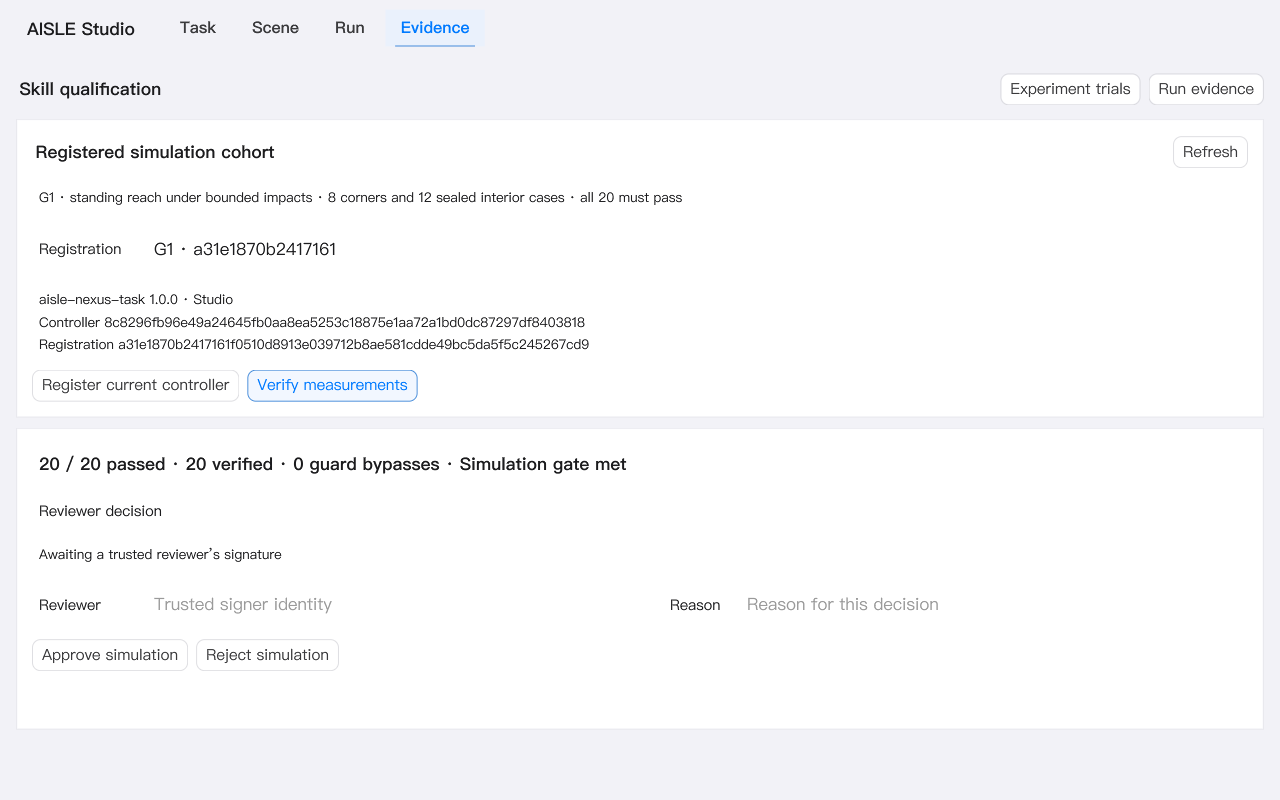
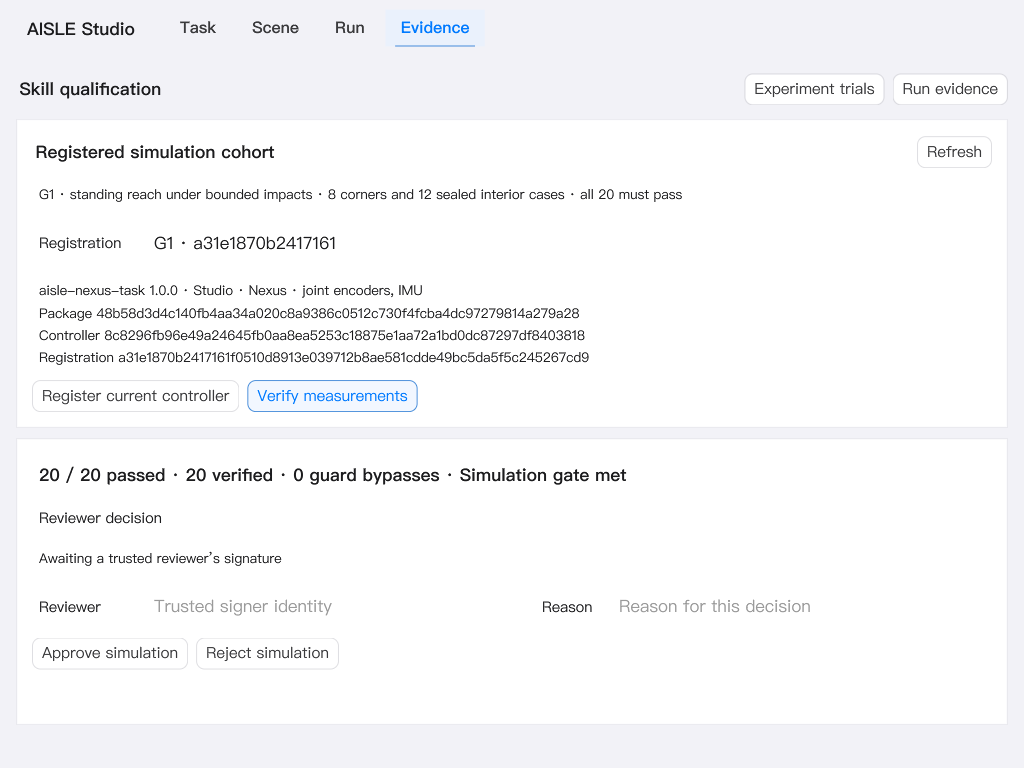
Show the sensor contract and package digest in the native qualification review

diff --git a/tools/check_skill_qualification.py b/tools/check_skill_qualification.py
@@ -5,7 +5,9 @@ import json
 import os
 from pathlib import Path
 import shutil
+import struct
 import subprocess
+from tempfile import TemporaryDirectory
 
 from studio_native import NativeStudio, ROOT
 
@@ -57,7 +59,8 @@ def main():
             ),
         )
     # Independent ephemeral acceptance identity. This has no trust on an operator's installation.
-    key = folder / "acceptance-key"
+    signing_dir = TemporaryDirectory(prefix="aisle-review-test-key-")
+    key = Path(signing_dir.name) / "acceptance-key"
     subprocess.run(
         ["ssh-keygen", "-q", "-t", "ed25519", "-N", "", "-f", str(key)], check=True
     )
@@ -119,7 +122,32 @@ def main():
         assert len(rows) == report["cases"] and all(r["verified"] for r in rows), report
         assert len({r["spec"]["request_id"] for r in rows}) == len(rows)
         if args.backend == "offscreen":
-            app.act("grab", "w=0", "out=" + str(folder / "skill-review.png"))
+            sizes = []
+            for width, height in [(1024, 768), (1440, 900)]:
+                app.act("resize", "window=0", f"w={width}", f"h={height}")
+                image = folder / f"skill-review-{width}.png"
+                app.act("grab", "w=0", "out=" + str(image))
+                assert struct.unpack(">II", image.read_bytes()[16:24]) == (
+                    width,
+                    height,
+                )
+                rects = {}
+                for name in ["selector", "result", "reviewer", "reason", "reject"]:
+                    rect = app.control(prefix + name)["rect"]
+                    x, y, w, h = rect
+                    assert (
+                        -1 <= x
+                        and -1 <= y
+                        and x + w <= width + 1
+                        and y + h <= height + 1
+                    ), (name, rect)
+                    rects[name] = rect
+                sizes.append(
+                    {"size": [width, height], "image": image.name, "controls": rects}
+                )
+            (folder / "window-sizes.json").write_text(
+                json.dumps(sizes, indent=2) + "\n"
+            )
         if not report["qualified"]:
             assert not read(app.report)["controls"][prefix + "approve"]["enabled"]
         action = "approve" if report["qualified"] else "reject"
@@ -165,6 +193,7 @@ def main():
         assert not read(app.report)["controls"][prefix + "export"]["enabled"]
         decisions = read(directory / "reviews.json")
         assert len(decisions) == 2 and decisions[1]["decision"]["previous"]
+    signing_dir.cleanup()
     artifact = dict(
         robot=args.robot,
         backend=args.backend,

diff --git a/tools/skill_qualification/archive.py b/tools/skill_qualification/archive.py
@@ -1,6 +1,8 @@
 """Export or reopen the evidence needed to replay a complete skill qualification."""
 
 import argparse
+import hashlib
+import json
 import os
 from pathlib import Path
 import re
@@ -58,6 +60,14 @@ def allowed(path, robot, count):
     )
 
 
+def archive_sha256(path):
+    with path.open("rb") as stream:
+        checksum = hashlib.sha256()
+        for block in iter(lambda: stream.read(1024 * 1024), b""):
+            checksum.update(block)
+    return checksum.hexdigest()
+
+
 def export(directory, target):
     with cohort.exclusive(directory / "operation.lock"):
         report = review.verify(directory)
@@ -69,7 +79,7 @@ def export(directory, target):
                         z.write(p, rel)
             # Do not replace a previously published archive.
             os.link(temp.name, target)
-    return cohort.sha(target)
+    return archive_sha256(target)
 
 
 def restore(archive, state, identity, archive_digest):
@@ -78,7 +88,7 @@ def restore(archive, state, identity, archive_digest):
         raise ValueError(
             "This registration already exists in the selected Studio project"
         )
-    if cohort.sha(archive) != archive_digest:
+    if archive_sha256(archive) != archive_digest:
         raise ValueError("The archive differs from the published evidence digest")
     state.mkdir(parents=True, exist_ok=True)
     with TemporaryDirectory(dir=state) as temp:
@@ -96,7 +106,6 @@ def restore(archive, state, identity, archive_digest):
                 )
             ):
                 raise ValueError("Unexpected archive size or entries")
-            import json
 
             reg = json.loads(z.read("registration.json"))
             if cohort.digest(cohort.encode(reg)) != identity:
@@ -124,8 +133,6 @@ def restore(archive, state, identity, archive_digest):
 
 
 if __name__ == "__main__":
-    import json
-
     parser = argparse.ArgumentParser(description=__doc__)
     parser.add_argument("action", choices=["export", "restore"])
     parser.add_argument("--state", required=True, type=Path)

diff --git a/plugins/aisle/src/lib.rs b/plugins/aisle/src/lib.rs
@@ -236,14 +236,14 @@ script_mod! {
     mod.widgets.AisleEvidence=Page{
         Bar{ev_heading := Title{width:Fill text:"Run evidence"} ev_mode := mod.widgets.ux.ToolButton{text:"Experiment trials"} qa_mode := mod.widgets.ux.ToolButton{text:"Skill qualification"}}
         qa_panel := ScrollYView{width:Fill height:Fill flow:Down spacing:10 visible:false
-            qa_cohort_card := Card{width:Fill height:Fit
+            qa_cohort_card := Card{width:Fill height:Fit spacing:7
                 Bar{Title{width:Fill text:"Registered simulation cohort"} qa_refresh := mod.widgets.ux.ToolButton{text:"Refresh"}}
                 qa_scope := Body{}
                 Bar{Section{width:100 text:"Registration"} qa_selector := DropDown{width:Fill labels:["No registrations"]}}
                 qa_identity := Body{}
                 Bar{qa_register := mod.widgets.ux.ToolButton{text:"Register current controller"} qa_run := mod.widgets.ux.PrimaryButton{text:"Run remaining cases"} qa_verify := mod.widgets.ux.ToolButton{text:"Verify measurements"}}
             }
-            qa_review_card := Card{width:Fill height:Fit
+            qa_review_card := Card{width:Fill height:Fit spacing:7
                 qa_result := Title{}
                 qa_failure_scroll := ScrollYView{width:Fill height:72 flow:Down qa_failures := Body{max_lines:180}}
                 Section{text:"Reviewer decision"} qa_decision := Body{}

diff --git a/plugins/aisle/src/qualification.rs b/plugins/aisle/src/qualification.rs
@@ -154,11 +154,26 @@ impl Panel {
         self.label(cx, ids!(qa_scope), scope);
         let pin = &v["package"];
         let ident = if reg {
+            let inputs = v["sensors"]
+                .as_array()
+                .into_iter()
+                .flatten()
+                .filter_map(Value::as_str)
+                .map(|value| match value {
+                    "onboard_rgb" => "onboard RGB",
+                    "imu" => "IMU",
+                    "joint_encoders" => "joint encoders",
+                    v => v,
+                })
+                .collect::<Vec<_>>()
+                .join(", ");
             format!(
-                "{} {} · {}\nController {}\nRegistration {}",
+                "{} {} · {} · Nexus · {}\nPackage {}\nController {}\nRegistration {}",
                 s(pin, "name"),
                 s(pin, "version"),
                 s(pin, "source"),
+                inputs,
+                s(pin, "package_sha256"),
                 s(v, "controller_sha256"),
                 selected
             )

diff --git a/docs/product/aisle-studio/environment/skill-qualification/README.md b/docs/product/aisle-studio/environment/skill-qualification/README.md
@@ -17,7 +17,7 @@ Both registrations reached the remote PR branch before execution. Members with r
 | G1 package | All 20 cases must meet the bounded-impact standing reach criteria | 20/20 passed, 20/20 distinct receipts verified, 40,000 scored steps with both feet loaded, zero guard bypasses. Worst settled wrist error was 5.15 mm and the longest stable recovery was 0.50 s. [Registration](g1/registration.json) · [Verification](g1/verification.json) · [Raw archive](g1/evidence.zip) |
 | Nano package | Complete all three transfers on at least 45 of the 50 hidden layouts, verify every case and record zero guard bypasses | Evaluation in progress. [Registration](nano/registration.json) · [Layout commitments](nano/suite.json) |
 
-The G1 archive contains the original unsigned evaluation. The native workflow test used its own ephemeral reviewer key in an isolated copy. An untrusted identity and a modified measurement were both rejected. The test exported a signed simulation dossier, reopened the decision after restart and exercised supersession with a signed rejection. The original project remains available for an independent reviewer. [Native acceptance record](g1/native-offscreen.json) · [Native review screen](g1/native-review.png)
+The G1 archive contains the original unsigned evaluation. The native workflow test used its own ephemeral reviewer key in an isolated copy. An untrusted identity and a modified measurement were both rejected. The test exported a signed simulation dossier, reopened the decision after restart and exercised supersession with a signed rejection. The original project remains available for an independent reviewer. [Native acceptance record](g1/native-offscreen.json) · [1024 × 768](g1/native-review.png) · [1440 × 900](g1/native-review-1440.png) · [Measured control bounds](g1/window-sizes.json)
 
 Signed Makepad DevHub job J13 compiled the release candidate, registered a second G1 cohort from the native Evidence page, and executed all 20 cases through the real bridge. All 20 passed, each receipt verified, and Studio restored the signed review after a restart. The job finished in 335 seconds. [Headless build manifest](../devhub/skill-qualification-g1/verification.json) · [G1 workflow receipt](../devhub/skill-qualification-g1/g1/verification.json)
 
